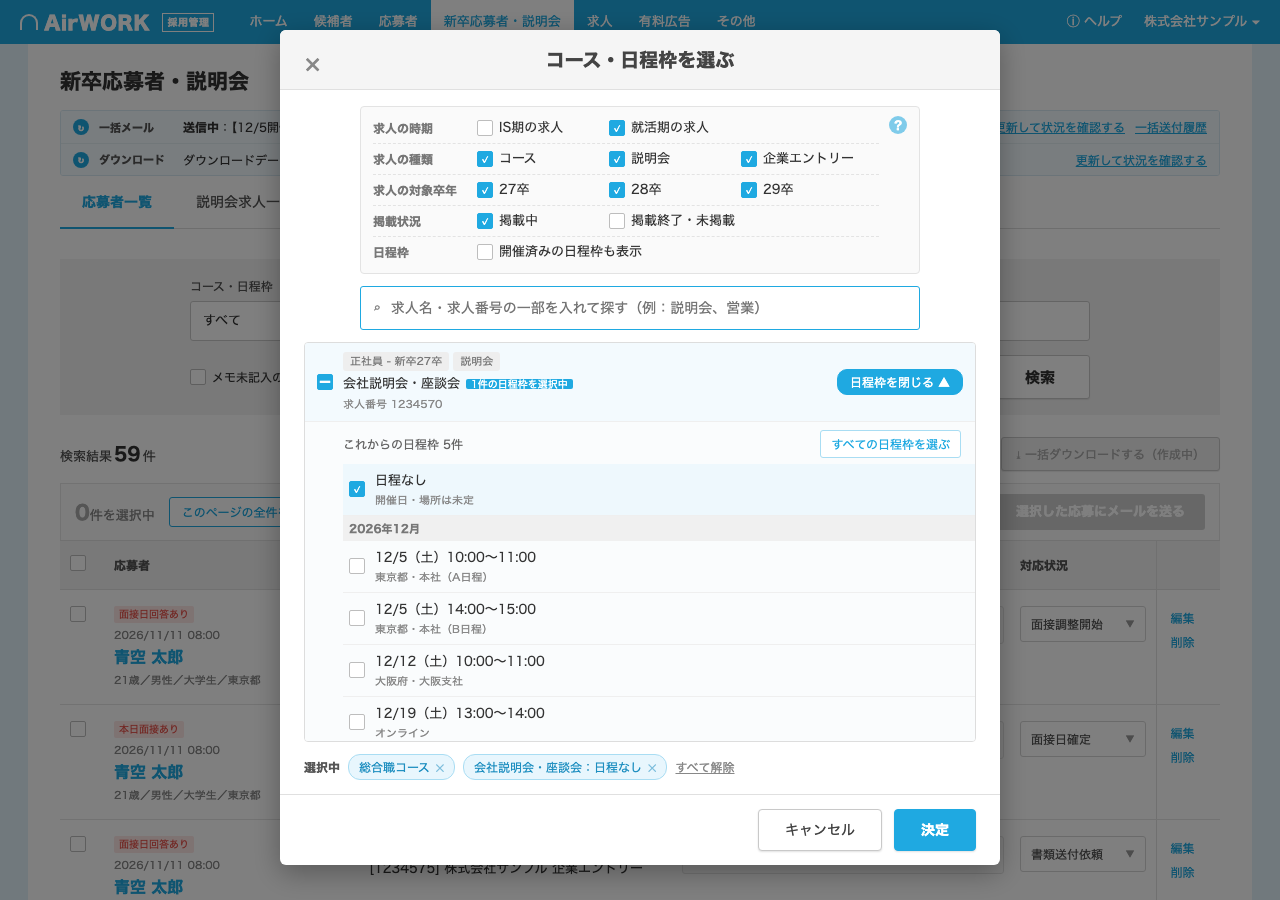
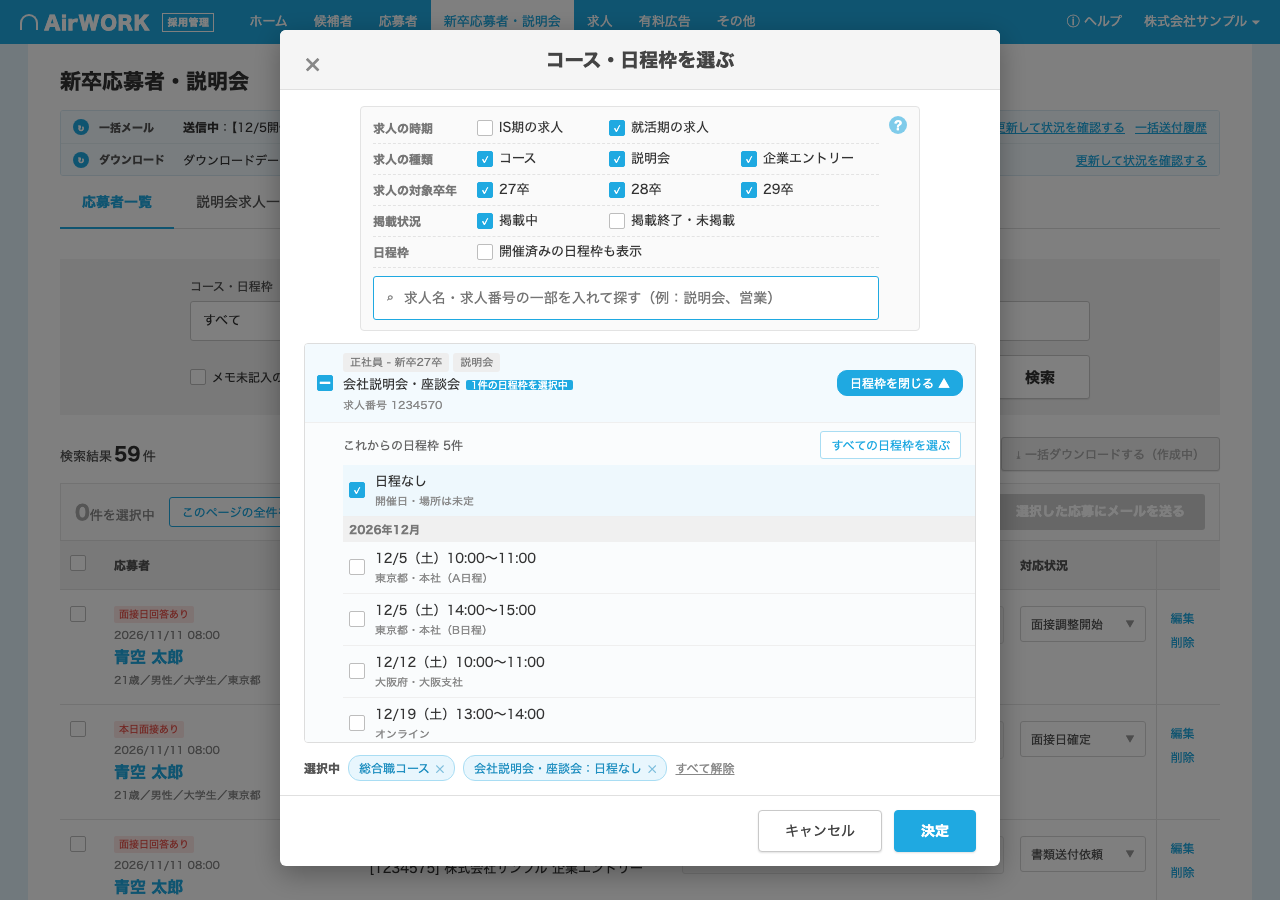
モーダルの検索窓を絞り込みのグレー枠の中へ移動

diff --git a/index.html b/index.html
@@ -69,10 +69,11 @@
     <div class="mh"><span class="x" id="mdClose">×</span><h2>コース・日程枠を選ぶ</h2></div>
     <div class="mb">
       <div class="mtop">
-        <div class="fbox"><div id="frows"></div><span class="qtip down click ftip" id="kTip">?<span class="qbox">応募が1件以上ある求人だけを出しています。<br>応募がまだない求人は出ません。</span></span></div>
-        <div class="tools">
-          <label class="srch big"><span class="mg">⌕</span><input id="mdQ" placeholder="求人名・求人番号の一部を入れて探す（例：説明会、営業）"></label>
-        </div>
+        <div class="fbox"><div id="frows"></div>
+          <div class="tools">
+            <label class="srch big"><span class="mg">⌕</span><input id="mdQ" placeholder="求人名・求人番号の一部を入れて探す（例：説明会、営業）"></label>
+          </div>
+          <span class="qtip down click ftip" id="kTip">?<span class="qbox">応募が1件以上ある求人だけを出しています。<br>応募がまだない求人は出ません。</span></span></div>
       </div>
       <div class="panes" id="panes">
         <div class="left">

diff --git a/style.css b/style.css
@@ -362,6 +362,8 @@ body.dirty table, body.dirty .pager, body.dirty .pinfo, body.dirty .empty { opac
 .fbox .frow label.cb:nth-of-type(3n+1) { grid-column: 2; }
 .mtop { width: 560px; margin: 0 auto; }
 .mtop .desc { text-align: center; margin-left: -56px; margin-right: -56px; }
+.fbox .tools { margin: 0 0 4px; padding-top: 8px; border-top: 1px dashed #E3E3E3; }
+.fbox .srch.big { background: #FFF; }
 .fbox .ftip .qbox { left: auto; right: -10px; }
 .fbox .ftip .qbox::after { left: auto; right: 14px; }
 .mtabs { display: none !important; }
